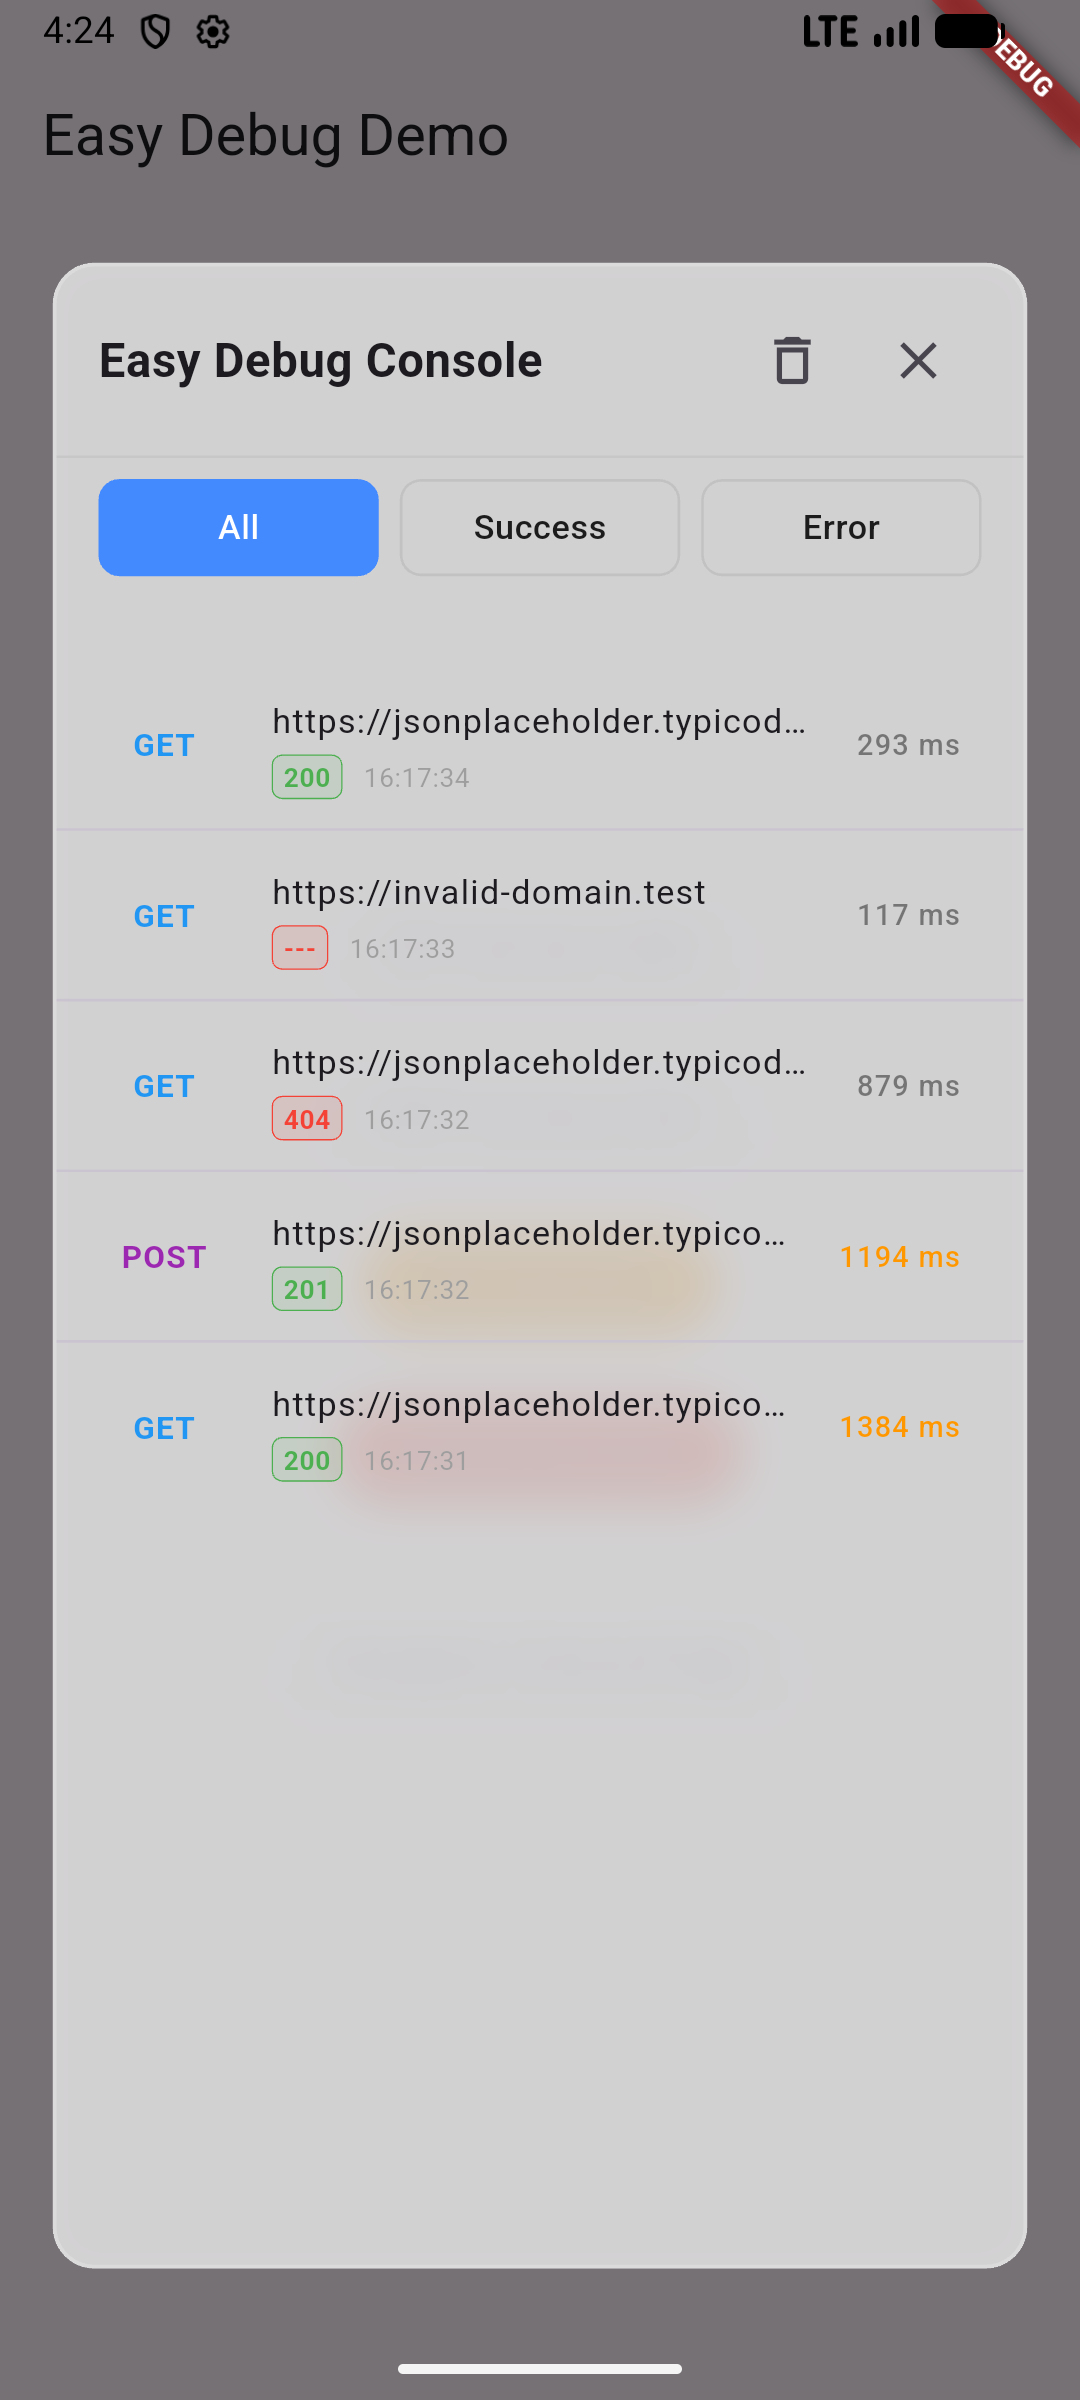
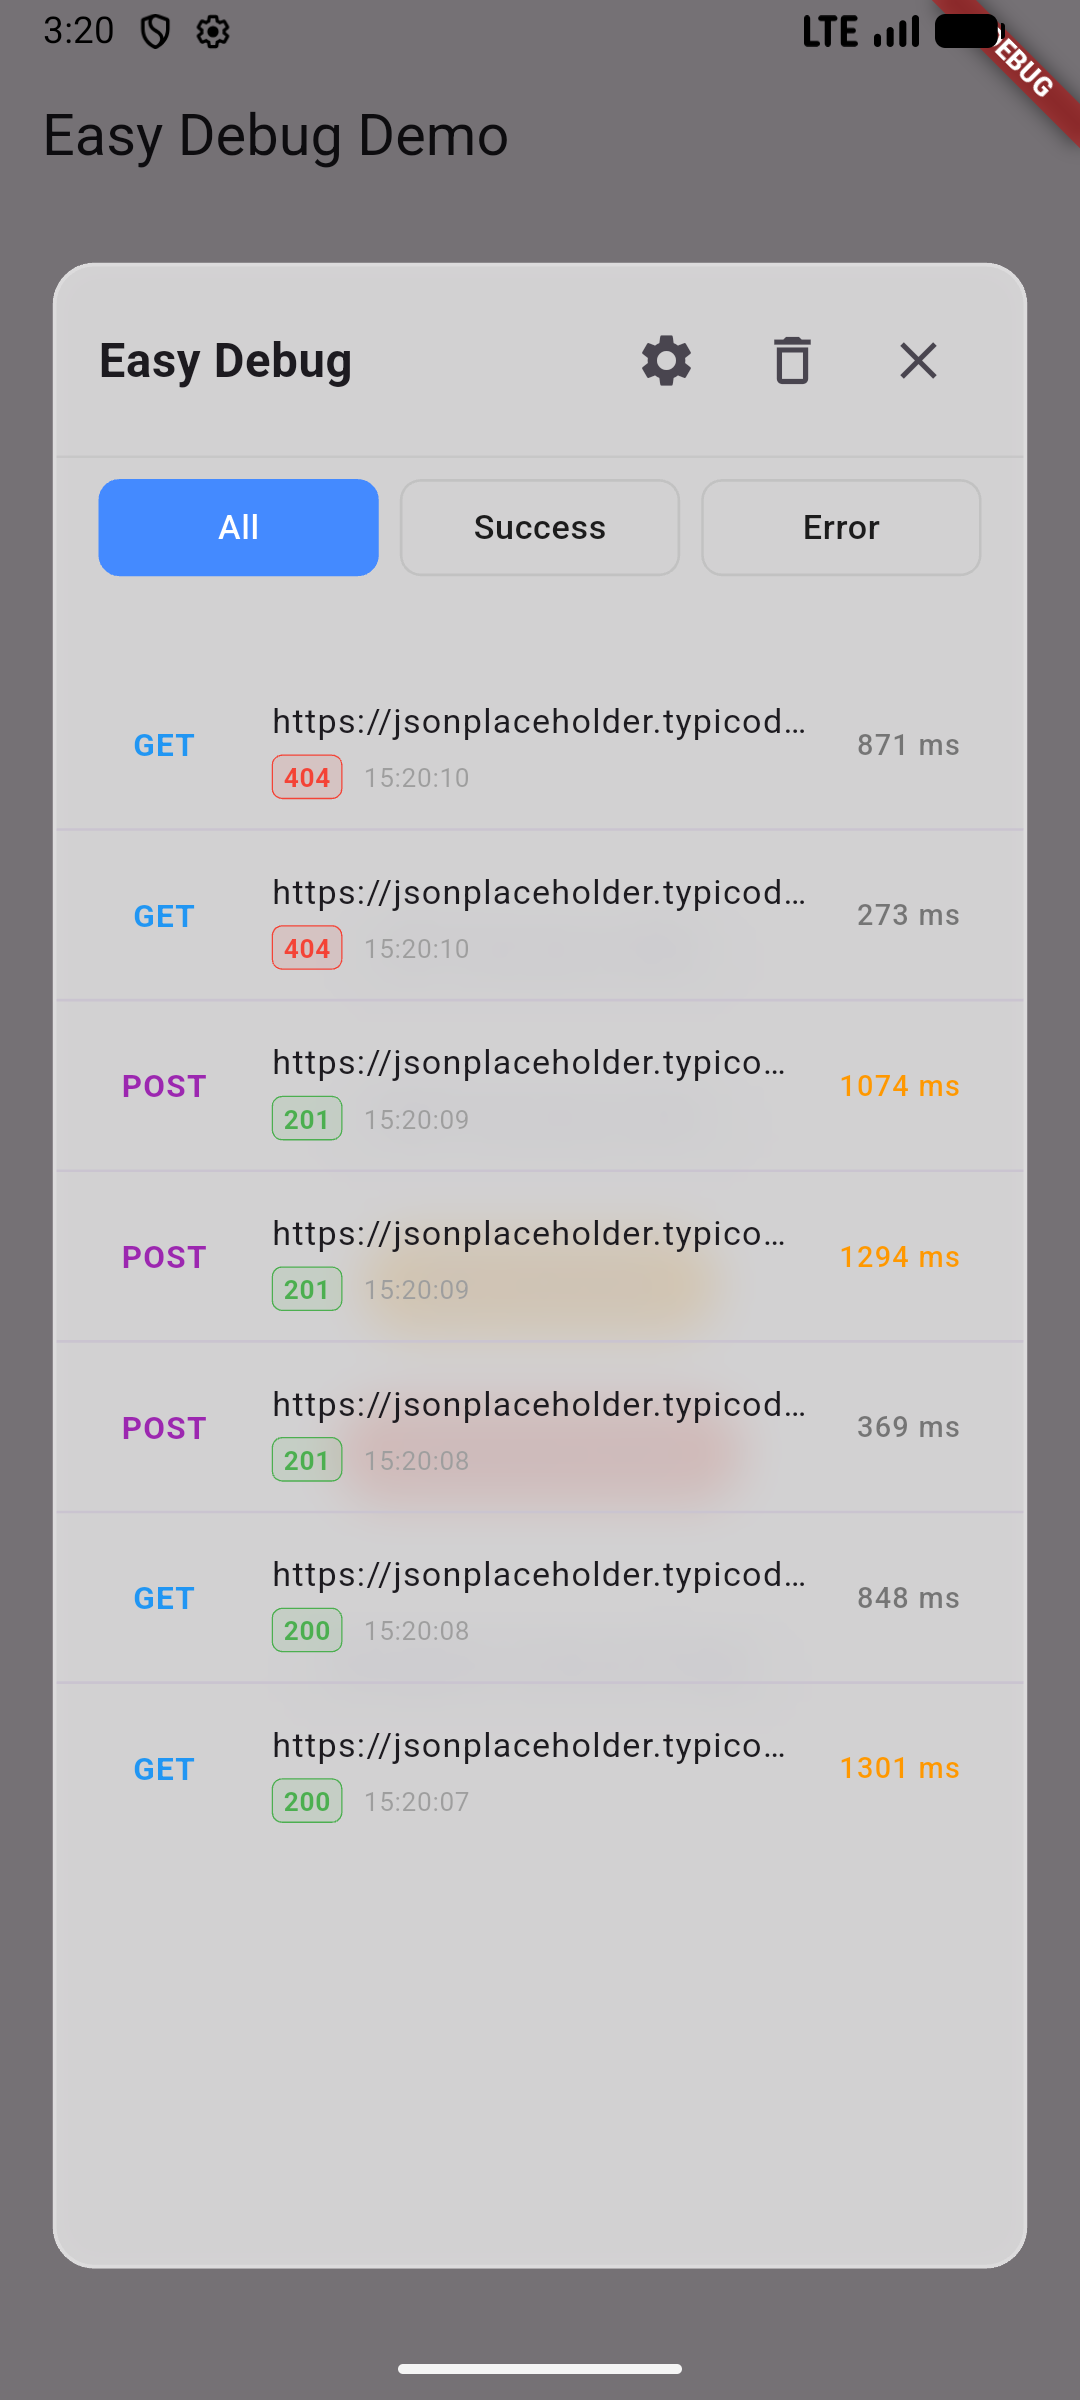
docs: update readme screenshots and fix opacity (v0.0.3)

diff --git a/lib/src/ui/easy_debug_widget.dart b/lib/src/ui/easy_debug_widget.dart
@@ -71,7 +71,7 @@ class _EasyDebugWidgetState extends State<EasyDebugWidget> {
                                   child: Container(
                                     decoration: BoxDecoration(
                                       color: Colors.white.withValues(
-                                        alpha: 0.95,
+                                        alpha: 0.7,
                                       ),
                                       borderRadius: BorderRadius.circular(16),
                                       border: Border.all(

diff --git a/README.md b/README.md
@@ -6,9 +6,10 @@ A pure Dart, lightweight, and powerful in-app network debugger for Flutter.
 ## Screenshots
 
 <div style="text-align: center">
-  <img src="screenshots/screenshot_1.png" width="30%" />
-  <img src="screenshots/screenshot_2.png" width="30%" />
-  <img src="screenshots/screenshot_3.png" width="30%" />
+  <img src="screenshots/screenshot_1.png" width="22%" />
+  <img src="screenshots/Screenshot_2.png" width="22%" />
+  <img src="screenshots/screenshot_3.png" width="22%" />
+  <img src="screenshots/Screenshot_4.png" width="22%" />
 </div>
 
 ## Features
@@ -16,6 +17,7 @@ A pure Dart, lightweight, and powerful in-app network debugger for Flutter.
 *   🚀 **Pure Dart**: No native dependencies, works on all Flutter platforms (Android, iOS, Web, Desktop).
 *   📱 **Floating Overlay**: Always accessible Draggable floating button.
 *   💎 **Glassmorphism UI**: Modern, semi-transparent design.
+*   🌍 **Environment Switcher**: Switch API environments (Dev/Prod) at runtime with persistence.
 *   🔍 **Detailed Inspection**: View headers, body, timestamp, and duration for Requests and Responses.
 *   📂 **Categorization**: Filter logs by "All", "Success", or "Error" tabs.
 *   📋 **Smart Copy**: One-tap copy for Request/Response content (JSON formatted).
@@ -75,6 +77,59 @@ final dio = Dio();
 
 // Add the interceptor
 dio.interceptors.add(EasyDebugDioInterceptor());
+```
+
+## Environment Switching
+
+Easy Debug allows you to switch API environments (e.g., Dev, Test, Prod) at runtime.
+
+### 1. Initialize Environments
+
+Initialize the manager with your environment list in `main()` before `runApp`.
+
+```dart
+void main() async {
+  WidgetsFlutterBinding.ensureInitialized();
+  
+  await EasyDebugManager().init(environments: [
+      const AppEnvironment(
+        name: 'Production',
+        baseUrl: 'https://api.example.com',
+        isDefault: true,
+      ),
+       const AppEnvironment(
+        name: 'Development',
+        baseUrl: 'https://dev.api.example.com',
+      ),
+  ]);
+  
+  runApp(const MyApp());
+}
+```
+
+### 2. Use Dynamic Base URL
+
+Update your Dio client to listen for environment changes.
+
+```dart
+class _MyAppState extends State<MyApp> {
+  final Dio _dio = Dio();
+
+  @override
+  void initState() {
+    super.initState();
+    // Set initial URL
+    _dio.options.baseUrl = EasyDebugManager().currentBaseUrl;
+    
+    // Listen for changes
+    EasyDebugManager().currentEnvNotifier.addListener(() {
+      final newEnv = EasyDebugManager().currentEnvNotifier.value;
+      if (newEnv != null) {
+        _dio.options.baseUrl = newEnv.baseUrl;
+      }
+    });
+  }
+}
 ```
 
 ## Usage

diff --git a/CHANGELOG.md b/CHANGELOG.md
@@ -1,3 +1,8 @@
+## 0.0.3
+
+*   **[DOCS] Update README**: Added comprehensive documentation for Environment Switcher feature.
+*   **[FIX] UI Polish**: Fixed glassmorphism opacity issue in settings view (was too opaque).
+
 ## 0.0.2
 
 *   **[NEW] Environment Switcher**: Added support for managing and switching API environments (e.g., Dev/Prod) at runtime.
